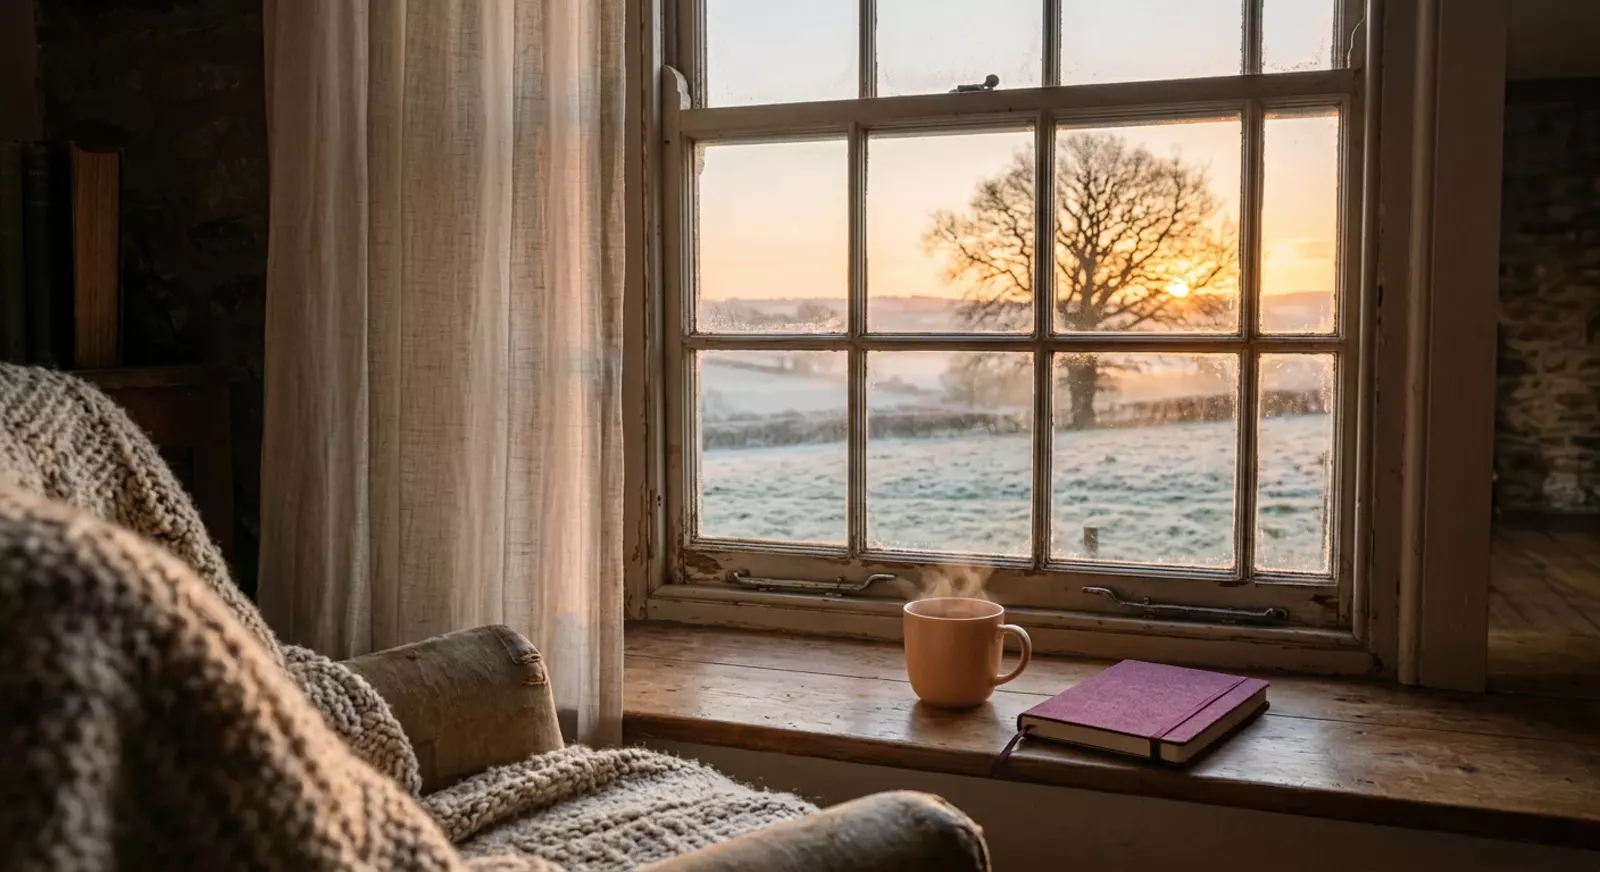
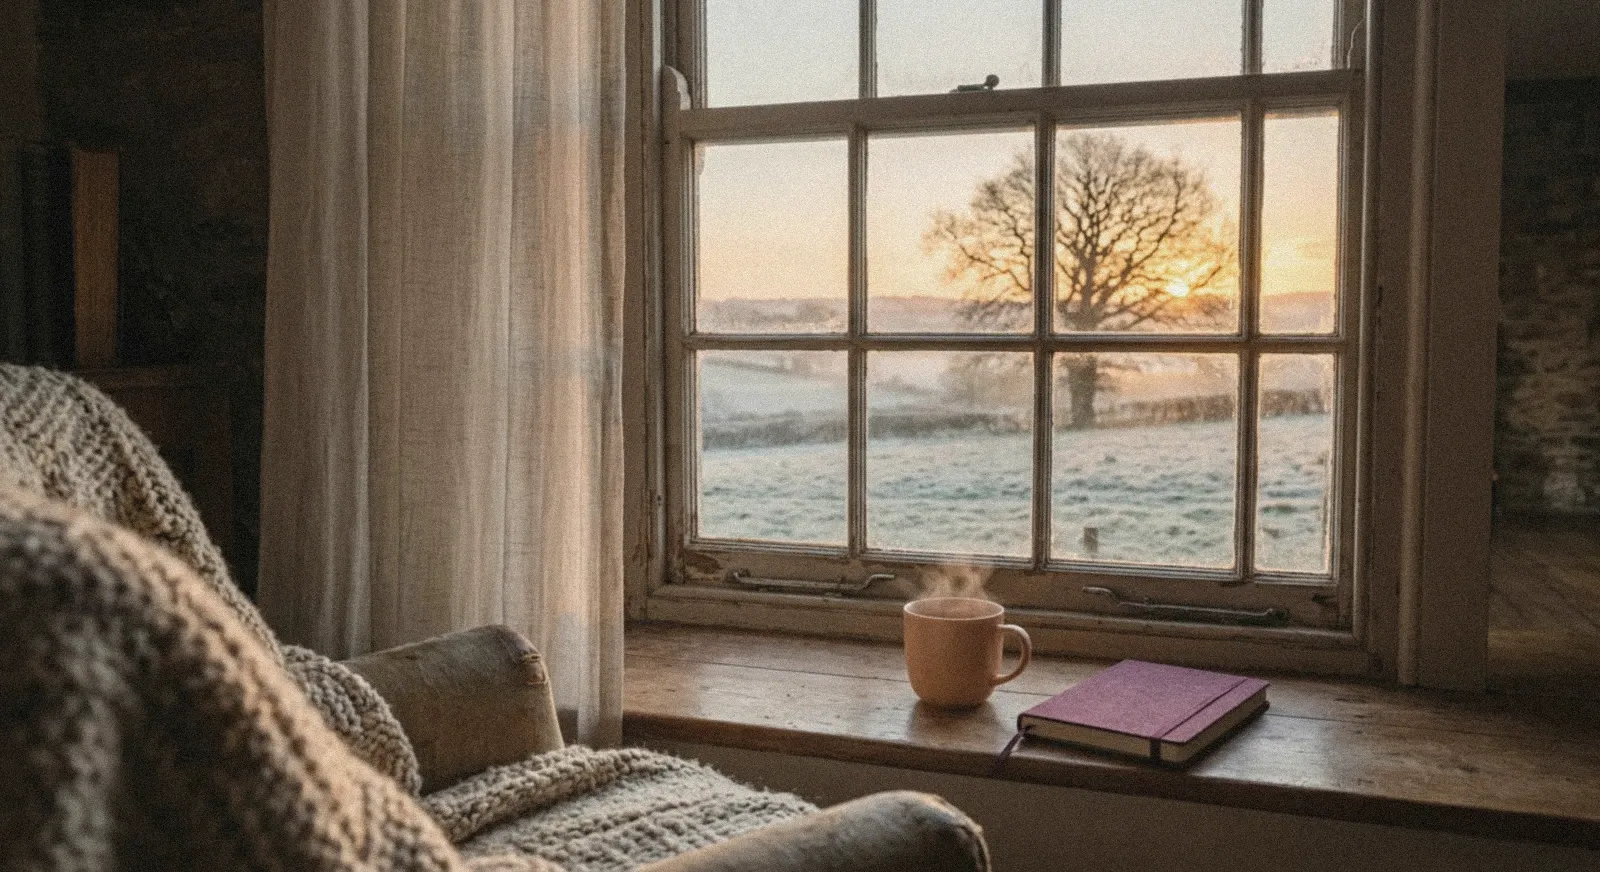
The four stills without faces: softened, less colour and a fine grain, so they look less AI-made
Claude-Session: https://claude.ai/code/session_019VY17MM1Pv81B6vJUTKu9b

diff --git a/index.html b/index.html
@@ -69,8 +69,8 @@
         <figure class="reveal">
           <div class="pic parallax">
             <picture>
-              <source type="image/webp" srcset="media/night-800.webp 800w, media/night-1600.webp 1600w" sizes="(min-width: 900px) 560px, 100vw">
-              <img src="media/night-1600.jpg" srcset="media/night-800.jpg 800w, media/night-1600.jpg 1600w" sizes="(min-width: 900px) 560px, 100vw" alt="A bedside table at night with a lamp, a glass of water, reading glasses, a phone and an open notebook with a pen." width="1600" height="873" loading="lazy">
+              <source type="image/webp" srcset="media/night-800.webp?v=2 800w, media/night-1600.webp?v=2 1600w" sizes="(min-width: 900px) 560px, 100vw">
+              <img src="media/night-1600.jpg?v=2" srcset="media/night-800.jpg?v=2 800w, media/night-1600.jpg?v=2 1600w" sizes="(min-width: 900px) 560px, 100vw" alt="A bedside table at night with a lamp, a glass of water, reading glasses, a phone and an open notebook with a pen." width="1600" height="873" loading="lazy">
             </picture>
           </div>
         </figure>
@@ -93,8 +93,8 @@
         <figure class="reveal">
           <div class="pic parallax">
             <picture>
-              <source type="image/webp" srcset="media/table-800.webp 800w, media/table-1600.webp 1600w" sizes="(min-width: 900px) 560px, 100vw">
-              <img src="media/table-1600.jpg" srcset="media/table-800.jpg 800w, media/table-1600.jpg 1600w" sizes="(min-width: 900px) 560px, 100vw" alt="Two people's hands rest together on an open notebook at a kitchen table, beside two mugs of tea." width="1600" height="873" loading="lazy">
+              <source type="image/webp" srcset="media/table-800.webp?v=2 800w, media/table-1600.webp?v=2 1600w" sizes="(min-width: 900px) 560px, 100vw">
+              <img src="media/table-1600.jpg?v=2" srcset="media/table-800.jpg?v=2 800w, media/table-1600.jpg?v=2 1600w" sizes="(min-width: 900px) 560px, 100vw" alt="Two people's hands rest together on an open notebook at a kitchen table, beside two mugs of tea." width="1600" height="873" loading="lazy">
             </picture>
           </div>
         </figure>
@@ -310,8 +310,8 @@
           <figure class="reveal d1">
             <div class="pic parallax">
               <picture>
-                <source type="image/webp" srcset="media/handover-800.webp 800w, media/handover-1600.webp 1600w" sizes="(min-width: 900px) 560px, 100vw">
-                <img src="media/handover-1600.jpg" srcset="media/handover-800.jpg 800w, media/handover-1600.jpg 1600w" sizes="(min-width: 900px) 560px, 100vw" alt="One person hands two printed pages across a wooden desk to another person's open hand, in a calm, bright room." width="1600" height="873" loading="lazy">
+                <source type="image/webp" srcset="media/handover-800.webp?v=2 800w, media/handover-1600.webp?v=2 1600w" sizes="(min-width: 900px) 560px, 100vw">
+                <img src="media/handover-1600.jpg?v=2" srcset="media/handover-800.jpg?v=2 800w, media/handover-1600.jpg?v=2 1600w" sizes="(min-width: 900px) 560px, 100vw" alt="One person hands two printed pages across a wooden desk to another person's open hand, in a calm, bright room." width="1600" height="873" loading="lazy">
               </picture>
             </div>
           </figure>
@@ -455,8 +455,8 @@
         <figure class="reveal d1">
           <div class="pic parallax">
             <picture>
-              <source type="image/webp" srcset="media/dawn-800.webp 800w, media/dawn-1600.webp 1600w" sizes="(min-width: 900px) 620px, 100vw">
-              <img src="media/dawn-1600.jpg" srcset="media/dawn-800.jpg 800w, media/dawn-1600.jpg 1600w" sizes="(min-width: 900px) 620px, 100vw" alt="Sunrise over frosty fields and a lone oak tree, seen through an old sash window, with a mug of tea and a closed notebook on the sill." width="1600" height="873" loading="lazy">
+              <source type="image/webp" srcset="media/dawn-800.webp?v=2 800w, media/dawn-1600.webp?v=2 1600w" sizes="(min-width: 900px) 620px, 100vw">
+              <img src="media/dawn-1600.jpg?v=2" srcset="media/dawn-800.jpg?v=2 800w, media/dawn-1600.jpg?v=2 1600w" sizes="(min-width: 900px) 620px, 100vw" alt="Sunrise over frosty fields and a lone oak tree, seen through an old sash window, with a mug of tea and a closed notebook on the sill." width="1600" height="873" loading="lazy">
             </picture>
           </div>
         </figure>

diff --git a/beta.html b/beta.html
@@ -9,7 +9,7 @@
   <meta name="theme-color" content="#0F1B24" media="(prefers-color-scheme: dark)">
   <meta property="og:title" content="Join the My Medical Daybook Beta">
   <meta property="og:description" content="Free throughout the Beta. Type your code, then set it up in a few minutes on an iPhone, iPad, Mac or Android phone.">
-  <meta property="og:image" content="https://mymedicaldaybook.co.uk/media/handover-1600.jpg">
+  <meta property="og:image" content="https://mymedicaldaybook.co.uk/media/handover-1600.jpg?v=2">
   <meta property="og:type" content="website">
   <link rel="canonical" href="https://mymedicaldaybook.co.uk/beta.html">
   <meta property="og:url" content="https://mymedicaldaybook.co.uk/beta.html">

diff --git a/CLAUDE.md b/CLAUDE.md
@@ -20,6 +20,7 @@ The public site for My Medical Daybook at **https://mymedicaldaybook.co.uk** (Gi
 - `support.html`: how to get help, install steps, common questions, how to delete records.
 - `css/site.css`, `js/site.js`: the hero clip plays once and rests on its last frame; the walk film loops and pauses out of view; `.reveal` blocks rise in as they arrive (`html.js` is set by an inline script, so without JavaScript nothing is hidden); the stills drift slower than the page (`.pic.parallax`); the report pages fan in; the guide player (`#g-phone`, `#g-chips`, the ring from each step's recorded tap, Previous, Play or Pause, Next, the steps in words; plays only while on screen); the report chooser (`#r-chips`); the Beta code box (`#beta-code`: tidied to letters and digits, checked with the bridge, a good code shows "Your code from {label} is good.", then **What will you use Daybook for?** with Cancer treatment, Crohn's or colitis (since 20 October 2026, the app's v245) and Something else, such as chronic pain (since 30 October 2026, the app's v359), each linking to `https://app.mymedicaldaybook.co.uk/?beta=CODE&for=cancer|ibd|general` so the app saves the choice and its set-up does not ask again, and the three steps; a `?beta=CODE` on the site's own address fills and checks it). All motion off under reduced motion.
 - `guide/`: a copy of the app's `guide/guide.json` and frames (73 WebP, 4.5 MB; retaken at the app's v262 with times in 24 hours). **Recopy it whenever the app's guide is retaken** (`node tools/guide_shots.js` in the app repository) and bump `guide.json?v=` in `js/site.js`.
+- **The four stills without faces** (dawn, night, table, handover) were toned down on 1 November 2026 (Mark, after Frank said the pictures look AI-made): softened slightly, less colour, lower contrast, lifted shadows and a fine grain, so they read more like phone photos; their addresses carry `?v=2`. The garden table (`circle`) is left for a new Firefly picture, faces from behind or the side; the prompts are in Mark's scratch folder (`firefly-prompts.md`).
 - `media/`: the opener clip and poster, the two wash pictures, the walk film (1280 mp4 and webm, 1920 mp4, posters), the five stills at 800 and 1600 (jpg and webp), and the five reports' pages (`report-{notes,ibd,pain,food,mood}-{n}.webp` and `.jpg`, 1000px wide, from the previews; the old `report-1`/`-2` are kept for nothing and can go). `icons/`: the app's own icon (192, 512, the 180 touch icon, 32 and 64 favicons) and `mark1apps-line.png` for the footer chip.
 - The masters live in Mark's Branding folder and in the app repository's ignored `reports/brand` folder.
 
